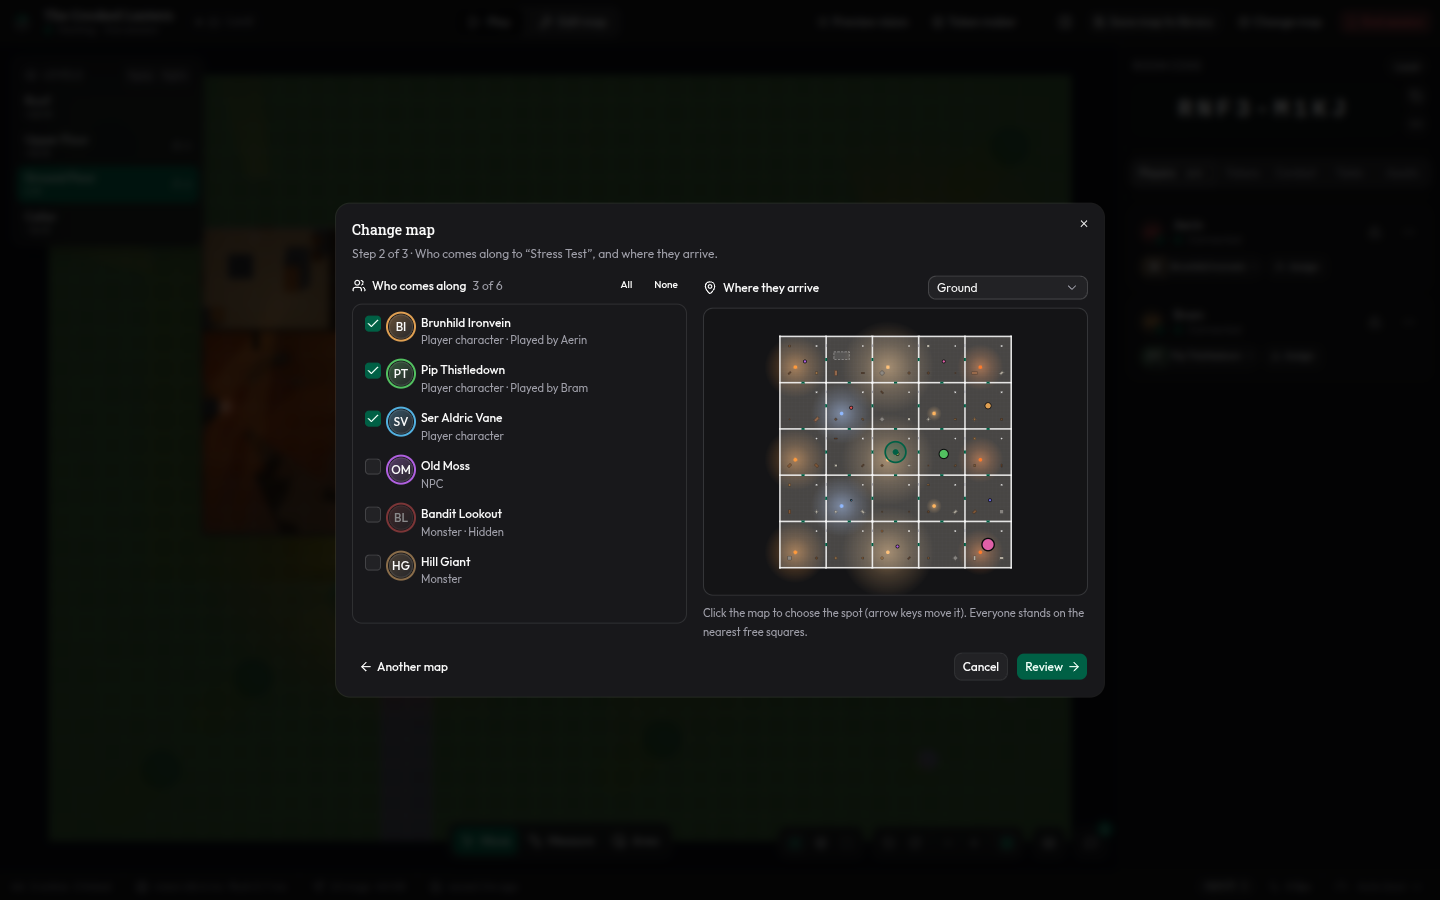
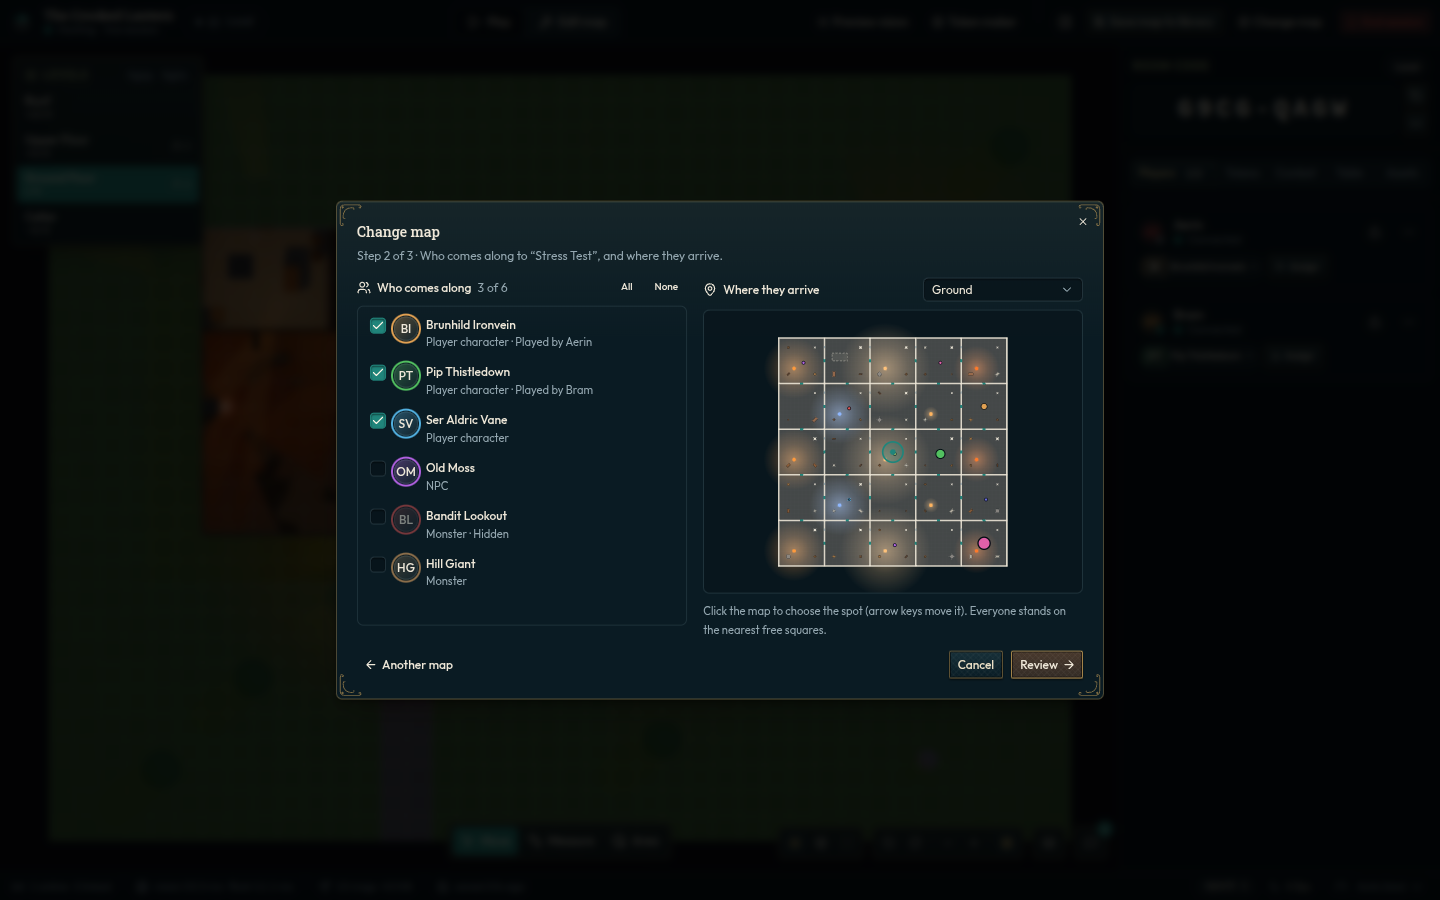
feat: the Change map confirm step offers its choices as decisions, like End session
Adopts the gilded theme's event-style options (the decision first, backing
out last) and re-shoots the README screenshot in the new theme.

Claude-Session: https://claude.ai/code/session_019bV36B7MPFMtrQFVBPXUy3

diff --git a/src/components/play/host/ChangeMapDialog.tsx b/src/components/play/host/ChangeMapDialog.tsx
@@ -370,24 +370,14 @@ function ChangeMapSteps({
           <AlertDescription>{error}</AlertDescription>
         </Alert>
       ) : null}
-      <DialogFooter>
-        <Button
-          variant="ghost"
-          className="sm:mr-auto"
-          disabled={busy !== null}
-          onClick={() => setStep("party")}
-        >
-          <ArrowLeft data-icon="inline-start" /> Back
-        </Button>
-        <Button
-          variant="outline"
-          disabled={busy !== null}
-          onClick={() => onOpenChange(false)}
-        >
-          Keep playing here
-        </Button>
+      {/* Event-style options (as the End session dialog): the decision first, backing out last. */}
+      <div className="mt-1 flex flex-col gap-1.5">
         {choice.kind === "clean" ? (
-          <Button disabled={blocked} onClick={() => void confirm(false)}>
+          <Button
+            variant="decision"
+            disabled={blocked}
+            onClick={() => void confirm(false)}
+          >
             {busy === "change" ? (
               <Spinner data-icon="inline-start" />
             ) : (
@@ -397,16 +387,9 @@ function ChangeMapSteps({
           </Button>
         ) : (
           <>
-            <Button
-              variant="destructive"
-              disabled={blocked}
-              onClick={() => void confirm(false)}
-            >
-              {busy === "change" ? <Spinner data-icon="inline-start" /> : null}
-              Change without saving
-            </Button>
             {choice.kind === "offer" || choice.kind === "looking-up" ? (
               <Button
+                variant="decision"
                 disabled={blocked || choice.kind !== "offer"}
                 onClick={() => void confirm(true)}
               >
@@ -418,9 +401,32 @@ function ChangeMapSteps({
                 Save map & change
               </Button>
             ) : null}
+            <Button
+              variant="decision"
+              className="text-destructive hover:text-destructive"
+              disabled={blocked}
+              onClick={() => void confirm(false)}
+            >
+              {busy === "change" ? <Spinner data-icon="inline-start" /> : null}
+              Change without saving
+            </Button>
           </>
         )}
-      </DialogFooter>
+        <Button
+          variant="decision"
+          disabled={busy !== null}
+          onClick={() => setStep("party")}
+        >
+          <ArrowLeft data-icon="inline-start" /> Change who comes along
+        </Button>
+        <Button
+          variant="decision"
+          disabled={busy !== null}
+          onClick={() => onOpenChange(false)}
+        >
+          Keep playing here
+        </Button>
+      </div>
     </>
   )
 }

diff --git a/docs/ARCHITECTURE.md b/docs/ARCHITECTURE.md
@@ -1446,9 +1446,9 @@ players keep playing without rejoining.
   (`app/library` `loadLibraryScene`: too-new and invalid documents are refused, as is one with the live
   `Scene.id`); (2) who comes along (PCs and every player's token ticked by default) and where they arrive
   (a level and a point on its thumbnail, by default the middle of what the thumbnail frames); (3) a
-  summary of what stays and what resets, with the unsaved-edits guard read when the DM confirms: "Save map
-  & change" saves the live map to its library scene first and stays open if that fails, "Change without
-  saving" discards the edits. The console leaves Edit map before the swap (the editor's undo history
+  summary of what stays and what resets, with the unsaved-edits guard read when the DM confirms, its
+  choices as event-style decisions (as the End session dialog): "Save map & change" saves the live map to
+  its library scene first and stays open if that fails, "Change without saving" discards the edits. The console leaves Edit map before the swap (the editor's undo history
   belongs to the old map), clears the selection, shows the arrival level and focuses the arrival point;
   `HostViewport` reframes and reloads level images keyed by the document (`play/host` `levelImageKey`,
   `backdropFolders`) and drops the old map's cached images.
